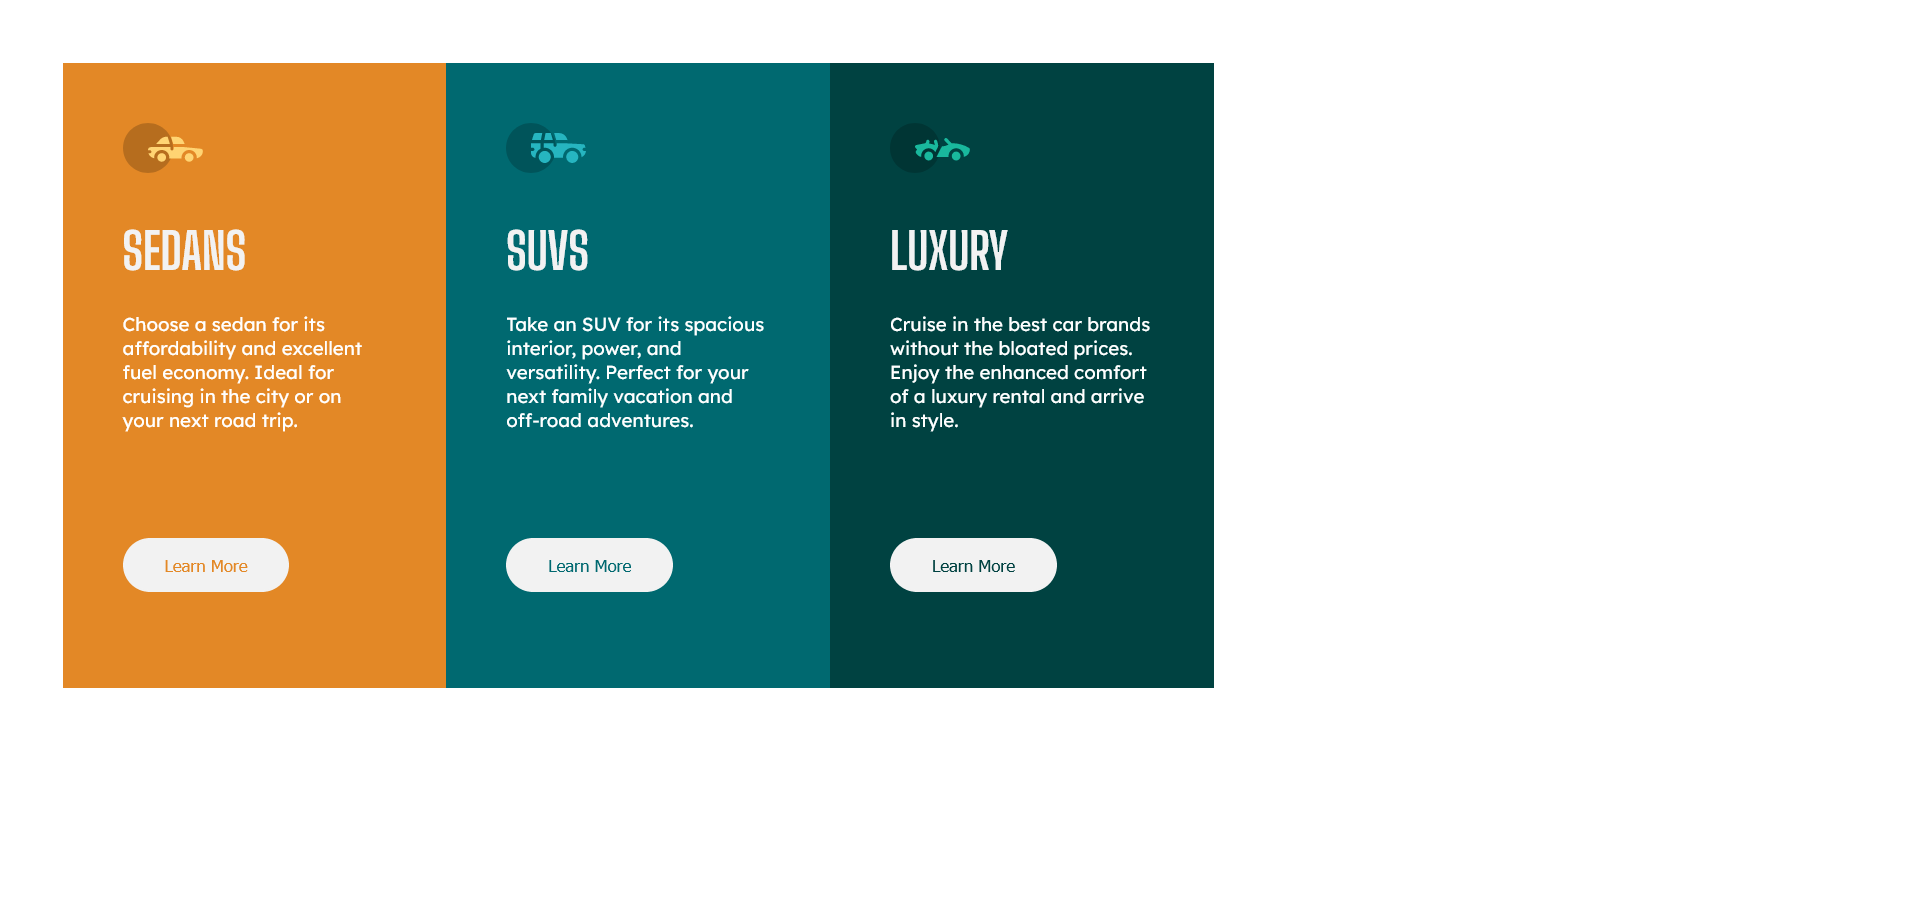
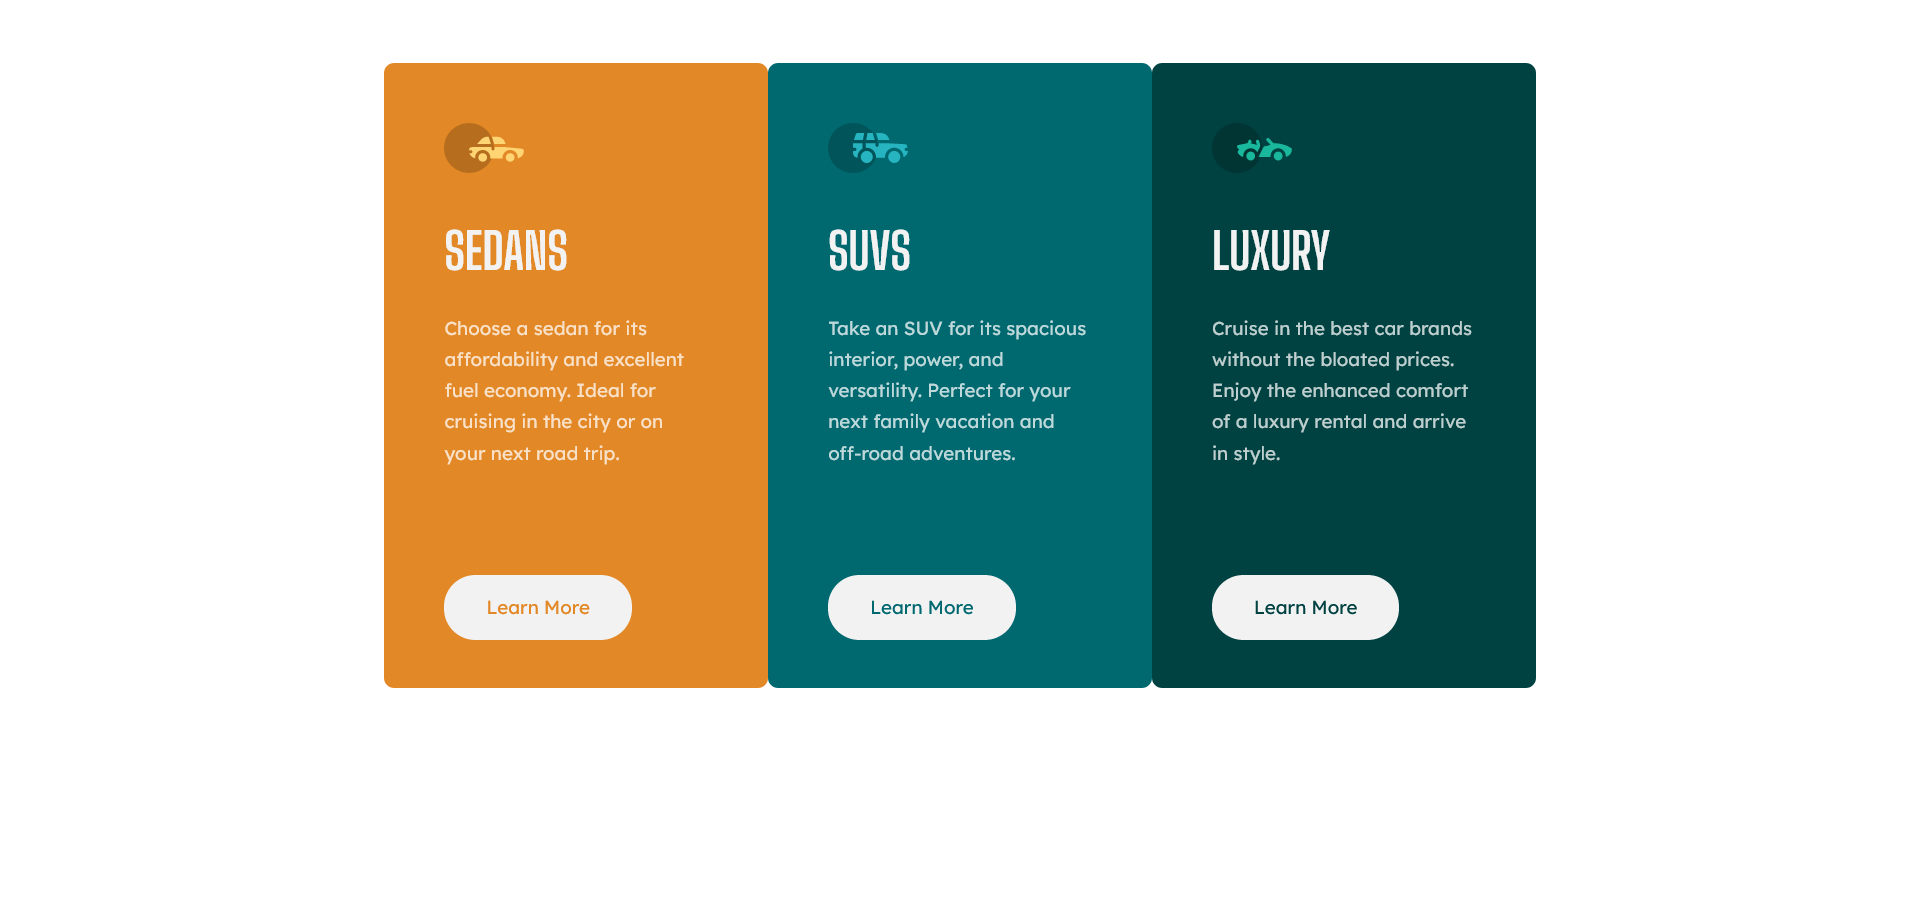
Edit line height and button font and cart reduces

diff --git a/index.html b/index.html
@@ -2,53 +2,52 @@
 <html lang="en">
 
 <head>
-    <meta charset="UTF-8">
-    <meta http-equiv="X-UA-Compatible" content="IE=edge">
-    <meta name="viewport" content="width=device-width, initial-scale=1.0">
-    <meta name="author" content="Hamed Asadi Asl">
-    <title>3-column preview card component</title>
+  <meta charset="UTF-8">
+  <meta http-equiv="X-UA-Compatible" content="IE=edge">
+  <meta name="viewport" content="width=device-width, initial-scale=1.0">
+  <meta name="author" content="Hamed Asadi Asl">
+  <title>3-column preview card component</title>
 
-    <link rel="icon" type="image/png" sizes="32x32" href="./images/favicon-32x32.png">
-    <link rel="stylesheet" href="style.css">
-    <link rel="preconnect" href="https://fonts.googleapis.com">
-    <link rel="preconnect" href="https://fonts.gstatic.com" crossorigin>
-    <link href="https://fonts.googleapis.com/css2?family=Big+Shoulders+Display:wght@700&family=Lexend+Deca&display=swap"
-        rel="stylesheet">
+  <link rel="icon" type="image/png" sizes="32x32" href="./images/favicon-32x32.png">
+  <link rel="stylesheet" href="style.css">
+  <link rel="preconnect" href="https://fonts.googleapis.com">
+  <link rel="preconnect" href="https://fonts.gstatic.com" crossorigin>
+  <link href="https://fonts.googleapis.com/css2?family=Big+Shoulders+Display:wght@700&family=Lexend+Deca&display=swap"
+    rel="stylesheet">
 
 </head>
 
 <body>
 
 
-    <div class="container">
+  <div class="container">
 
-        <div class="item item1">
-            <img src="images/icon-sedans.svg" alt="sedan">
-            <h1>SEDANS</h1>
-            <p>Choose a sedan for its affordability and excellent fuel economy. Ideal for cruising in the city
-                or on your next road trip.</p>
-            <button type="button" class="btn btn1">Learn More</button>
-        </div>
-
-        <div class="item item2">
-            <img src="images/icon-suvs.svg" alt="suvs">
-            <h1>SUVS</h1>
-            <p>Take an SUV for its spacious interior, power, and versatility. Perfect for your next family vacation 
-                and off-road adventures.</p>
-                <button type="button" class="btn btn2">Learn More</button>
-        </div>
-
-        <div class="item item3">
-            <img src="images/icon-luxury.svg" alt="luxury">
-            <h1>LUXURY</h1>
-            <p>Cruise in the best car brands without the bloated prices. Enjoy the enhanced comfort of a luxury 
-                rental and arrive in style.</p>
-                <button type="button" class="btn btn3">Learn More</button>
-        </div>
-
+    <div class="item item1">
+      <img src="images/icon-sedans.svg" alt="sedan">
+      <h1>SEDANS</h1>
+      <p>Choose a sedan for its affordability and excellent fuel economy. Ideal for cruising in the city
+        or on your next road trip.</p>
+      <button type="button" class="btn btn1">Learn More</button>
     </div>
 
-    <script src="main.js"></script>
+    <div class="item item2">
+      <img src="images/icon-suvs.svg" alt="suvs">
+      <h1>SUVS</h1>
+      <p>Take an SUV for its spacious interior, power, and versatility. Perfect for your next family vacation
+        and off-road adventures.</p>
+      <button type="button" class="btn btn2">Learn More</button>
+    </div>
+
+    <div class="item item3">
+      <img src="images/icon-luxury.svg" alt="luxury">
+      <h1>LUXURY</h1>
+      <p>Cruise in the best car brands without the bloated prices. Enjoy the enhanced comfort of a luxury
+        rental and arrive in style.</p>
+      <button type="button" class="btn btn3">Learn More</button>
+    </div>
+
+  </div>
+
 </body>
 
 </html>

diff --git a/style.css b/style.css
@@ -5,6 +5,12 @@ html {
   box-sizing: border-box;
 }
 
+body {
+  align-items: center;
+  display: flex;
+  justify-content: center;
+}
+
 @font-face {
   font-family: "Lexend Deca", sans-serif;
   src: url(https://fonts.google.com/specimen/Lexend+Deca);
@@ -24,6 +30,7 @@ h1 {
   font-size: 40px;
   color: hsl(0, 0%, 95%);
   margin-top: 35px;
+  line-height: 48px;
 }
 
 p {
@@ -31,6 +38,7 @@ p {
   font-size: 15px;
   color: hsla(0, 0%, 100%, 0.75);
   margin: 25px 0 85px 0;
+  line-height: 25px;
 }
 
 .container {
@@ -39,13 +47,14 @@ p {
   display: flex;
   flex-flow: row wrap;
   justify-content: flex-start;
-  margin: 50px;
+  margin-top: 50px;
 }
 
 .item {
   width: 307px;
   height: 500px;
   padding: 48px;
+  border-radius: 8px;
 }
 
 .item1 {
@@ -68,6 +77,9 @@ p {
   cursor: pointer;
   text-align: center;
   border: 2px solid #f2f2f2;
+  font-family: "Lexend Deca";
+  font-size: 15px;
+  line-height: 25px;
 }
 
 .btn1 {
@@ -131,9 +143,8 @@ p {
 }
 
 @media screen and (min-width: 769px) and (max-width: 992px) {
-    .container {
-        margin: 0;
-        flex-flow: row nowrap;
-      }
+  .container {
+    margin: 0;
+    flex-flow: row nowrap;
+  }
 }
-

diff --git a/README.md b/README.md
@@ -7,7 +7,10 @@ Users should be able to:
 - See hover states for interactive elements
 
 ### Screenshot
-![](Screenshot-3-column-preview-card-component.png)
+![Screenshot 3 column preview card component](Screenshot-3-column-preview-card-component.png)
+
+### Links
+- Live Site URL: [live site URL here](https://hamed3958.github.io/3-column-preview-card/)
 
 ### Built with
 - Semantic HTML5 markup
@@ -18,5 +21,3 @@ Users should be able to:
 - Website - [Hamed Asadi Asl](http://hamedasadiasl.ir/)
 - Frontend Mentor - [@hamed3958](https://www.frontendmentor.io/profile/hamed3958)
 - Github - [@hamed3958](https://github.com/hamed3958)
-
-
